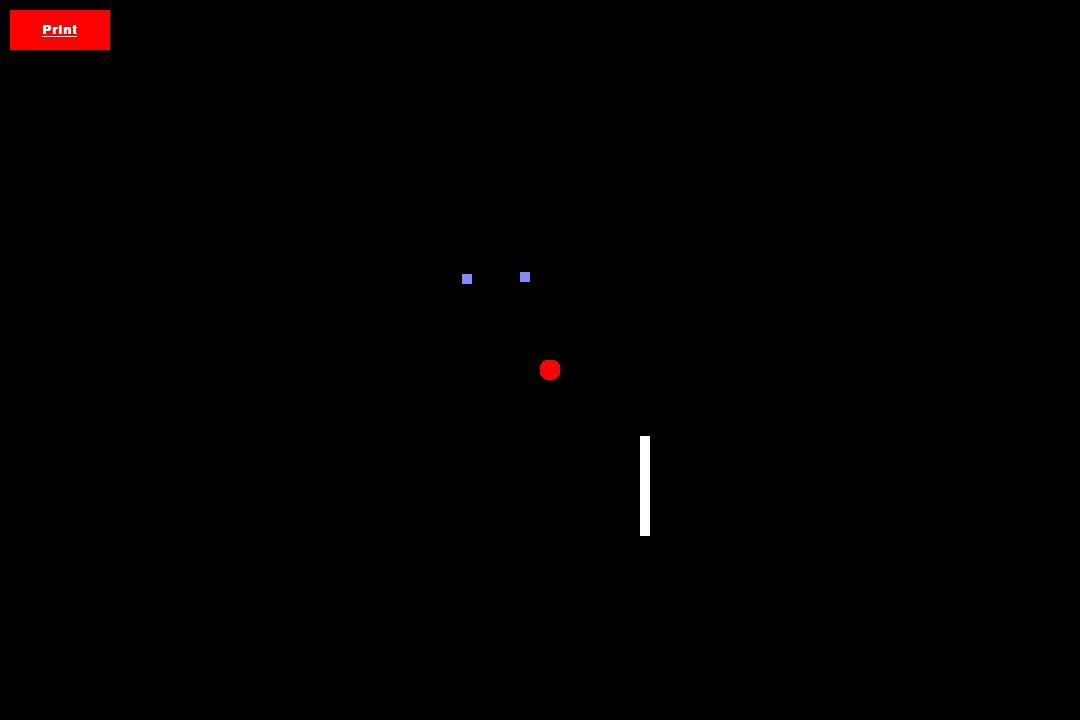
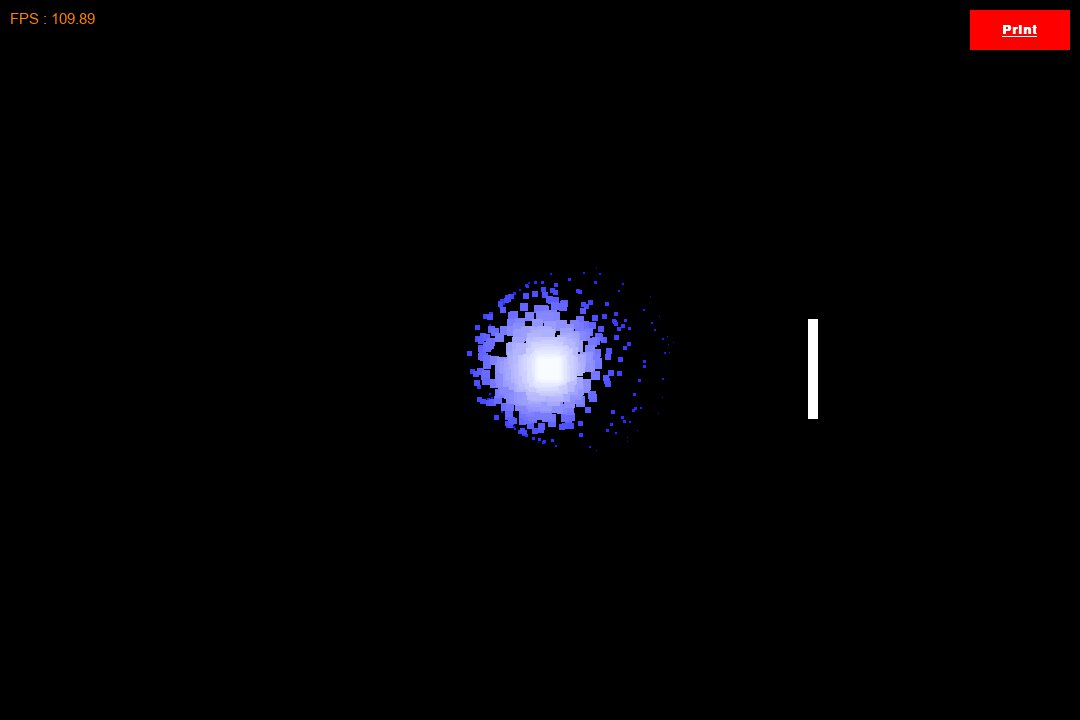
Create Debug Mode

diff --git a/pyengine/main_window/widgets/settings.py b/pyengine/main_window/widgets/settings.py
@@ -1,4 +1,4 @@
-from PyQt5.QtWidgets import QWidget, QLabel, QVBoxLayout, QLineEdit, QSpinBox, QPushButton
+from PyQt5.QtWidgets import QWidget, QLabel, QVBoxLayout, QLineEdit, QSpinBox, QPushButton, QCheckBox
 from PyQt5.QtGui import QFont
 from PyQt5.QtCore import Qt
 
@@ -21,6 +21,7 @@ class Settings(QWidget):
         self.number_mixer_channel_spin = QSpinBox(self)
         default_lang = QLabel("Current Language Name")
         self.default_lang_edit = QLineEdit("", self)
+        self.debug_check = QCheckBox("Debug Mode", self)
         self.valid = QPushButton("Validate", self)
 
         title.setFont(QFont("arial", 20, 1))
@@ -37,22 +38,24 @@ class Settings(QWidget):
 
         self.layout = QVBoxLayout()
         self.layout.addWidget(title)
-        self.layout.addSpacing(40)
+        self.layout.addSpacing(20)
         self.layout.addWidget(width)
         self.layout.addWidget(self.width_spin)
-        self.layout.addSpacing(20)
+        self.layout.addSpacing(10)
         self.layout.addWidget(height)
         self.layout.addWidget(self.height_spin)
-        self.layout.addSpacing(20)
+        self.layout.addSpacing(10)
         self.layout.addWidget(main_scene)
         self.layout.addWidget(self.main_scene_edit)
-        self.layout.addSpacing(20)
+        self.layout.addSpacing(10)
         self.layout.addWidget(number_mixer_channel)
         self.layout.addWidget(self.number_mixer_channel_spin)
-        self.layout.addSpacing(20)
+        self.layout.addSpacing(10)
         self.layout.addWidget(default_lang)
         self.layout.addWidget(self.default_lang_edit)
-        self.layout.addSpacing(40)
+        self.layout.addSpacing(10)
+        self.layout.addWidget(self.debug_check)
+        self.layout.addSpacing(20)
         self.layout.addWidget(self.valid)
         self.layout.setContentsMargins(50, 10, 50, 10)
         self.setLayout(self.layout)
@@ -69,6 +72,7 @@ class Settings(QWidget):
             self.project.settings["defaultLang"] = self.default_lang_edit.text()
         else:
             self.project.settings["defaultLang"] = None
+        self.project.settings["debug"] = self.debug_check.isChecked()
         self.project.save()
         self.parent.assets_explorer.update_project()
         self.parent.viewport.update_screen()
@@ -84,3 +88,4 @@ class Settings(QWidget):
         self.main_scene_edit.setText(self.project.settings.get("mainScene", ""))
         self.number_mixer_channel_spin.setValue(self.project.settings.get("numberMixerChannels", 8))
         self.default_lang_edit.setText(self.project.settings.get("defaultLang", ""))
+        self.debug_check.setChecked(self.project.settings.get("debug", False))

diff --git a/builds/Testing/Testing.py b/builds/Testing/Testing.py
@@ -7,14 +7,14 @@ from files.utils import *
 def launch():
     engine = Engine("en")
 
-    e1 = GameObject("e1", "Object", -1)
+    e1 = GameObject("e1", "Object", 1)
     transformcomponent = TransformComponent(engine, Vec2(100, 100), 0, Vec2(1.0, 1.0))
     e1.add_component(transformcomponent)
     spritecomponent = SpriteComponent(engine, "e1.png")
     e1.add_component(spritecomponent)
     controlcomponent = ControlComponent(engine, {'UPJUMP': 'K_UP', 'DOWN': 'K_DOWN', 'LEFT': 'K_LEFT', 'RIGHT': 'K_RIGHT'}, "FOURDIRECTION", 200)
     e1.add_component(controlcomponent)
-    particlecomponent = ParticleComponent(engine, Color.from_rgba(252, 255, 255, 255), Color.from_rgba(0, 0, 0, 255), Vec2(20, 20), Vec2(0, 0), Vec2(0, 359), Vec2(50, 50), 2, 1.0, 2)
+    particlecomponent = ParticleComponent(engine, Color.from_rgba(252, 255, 255, 255), Color.from_rgba(0, 0, 0, 255), Vec2(20, 20), Vec2(0, 0), Vec2(0, 359), Vec2(100, 100), 1, 0.01, 10)
     e1.add_component(particlecomponent)
     collisioncomponent = CollisionComponent(engine, True, "None", Vec2(20, 20))
     e1.add_component(collisioncomponent)
@@ -28,7 +28,7 @@ def launch():
     e2.add_component(collisioncomponent)
 
     button = GameObject("button", "Object", 0)
-    transformcomponent = TransformComponent(engine, Vec2(10, 10), 0, Vec2(1.0, 1.0))
+    transformcomponent = TransformComponent(engine, Vec2(970, 10), 0, Vec2(1.0, 1.0))
     button.add_component(transformcomponent)
     buttoncomponent = ButtonComponent(engine, Color.from_rgba(255, 0, 0, 255), Vec2(100, 40), "printLang - clicked", "Print", "arial", 20, True, False, True, Color.from_rgba(255, 255, 255, 255), True)
     button.add_component(buttoncomponent)
@@ -39,7 +39,7 @@ def launch():
     base = Scene(engine, "base", Color.from_rgba(0, 0, 0, 255), 1, Vec2(0, 0), e1, entities)
     
     scenes = [base]
-    game = Game("Testing", 1080, 720, 8, scenes, engine)
+    game = Game("Testing", 1080, 720, 8, True, scenes, engine)
     game.run()
 
 

diff --git a/builds/Testing/files/game.py b/builds/Testing/files/game.py
@@ -6,7 +6,7 @@ pygame.mixer.init()
 
 
 class Game:
-    def __init__(self, title, width, height,  nb_mixer_channels, scenes, engine):
+    def __init__(self, title, width, height,  nb_mixer_channels, debug, scenes, engine):
         self.engine = engine
         self.engine.game = self
         self.title = title
@@ -14,12 +14,16 @@ class Game:
         self.__height = height
         self.scenes = scenes
         self.current_scene = 0
+        self.debug = debug
+        self.debug_font = pygame.font.SysFont("arial", 15)
+        self.update_fps = 0.49
         pygame.mixer.set_num_channels(nb_mixer_channels)
 
         self.screen = pygame.display.set_mode((self.width, self.height))
 
         self.clock = pygame.time.Clock()
         self.is_running = False
+        self.fps_render = self.debug_font.render("FPS : "+str(round(self.get_fps(), 2)), True, (255, 128, 0, 255))
 
     @property
     def width(self):
@@ -78,8 +82,18 @@ class Game:
                 elif event.type == const.MOUSEMOTION:
                     self.scenes[self.current_scene].mouse_motion(event)
 
-            self.scenes[self.current_scene].update(self.clock.get_time() / 1000)
+            deltatime = self.clock.get_time() / 1000
+
+            self.scenes[self.current_scene].update(deltatime)
             self.scenes[self.current_scene].show(self.screen)
+
+            if self.debug:
+                self.update_fps += deltatime
+                if self.update_fps > 0.5:
+                    self.update_fps = 0
+                    self.fps_render = self.debug_font.render("FPS : " + str(round(self.get_fps(), 2)), True,
+                                                             (255, 128, 0, 255))
+                self.screen.blit(self.fps_render, (10, 10))
 
             self.clock.tick()
             pygame.display.update()

diff --git a/pyengine/build/objects/game.py b/pyengine/build/objects/game.py
@@ -6,7 +6,7 @@ pygame.mixer.init()
 
 
 class Game:
-    def __init__(self, title, width, height,  nb_mixer_channels, scenes, engine):
+    def __init__(self, title, width, height,  nb_mixer_channels, debug, scenes, engine):
         self.engine = engine
         self.engine.game = self
         self.title = title
@@ -14,12 +14,16 @@ class Game:
         self.__height = height
         self.scenes = scenes
         self.current_scene = 0
+        self.debug = debug
+        self.debug_font = pygame.font.SysFont("arial", 15)
+        self.update_fps = 0.49
         pygame.mixer.set_num_channels(nb_mixer_channels)
 
         self.screen = pygame.display.set_mode((self.width, self.height))
 
         self.clock = pygame.time.Clock()
         self.is_running = False
+        self.fps_render = self.debug_font.render("FPS : "+str(round(self.get_fps(), 2)), True, (255, 128, 0, 255))
 
     @property
     def width(self):
@@ -78,8 +82,18 @@ class Game:
                 elif event.type == const.MOUSEMOTION:
                     self.scenes[self.current_scene].mouse_motion(event)
 
-            self.scenes[self.current_scene].update(self.clock.get_time() / 1000)
+            deltatime = self.clock.get_time() / 1000
+
+            self.scenes[self.current_scene].update(deltatime)
             self.scenes[self.current_scene].show(self.screen)
+
+            if self.debug:
+                self.update_fps += deltatime
+                if self.update_fps > 0.5:
+                    self.update_fps = 0
+                    self.fps_render = self.debug_font.render("FPS : " + str(round(self.get_fps(), 2)), True,
+                                                             (255, 128, 0, 255))
+                self.screen.blit(self.fps_render, (10, 10))
 
             self.clock.tick()
             pygame.display.update()

diff --git a/pyengine/build/project_builder.py b/pyengine/build/project_builder.py
@@ -125,7 +125,8 @@ class ProjectBuilder:
             "{HEIGHT}": str(project.settings.get("height", 720)),
             "{NB_MIXER_CHANNELS}": str(project.settings.get("numberMixerChannels", 8)),
             "{SCENES_NAMES}": str([i.name for i in project.scenes]).replace("'", ""),
-            "{DEFAULT_LANG}": str(project.settings.get("defaultLang", None))
+            "{DEFAULT_LANG}": str(project.settings.get("defaultLang", None)),
+            "{DEBUG}": str(project.settings.get("debug", False))
         }
         with open(os.path.join(ProjectBuilder.build_folders["templates"], "main.txt"), "r") as f:
             template = f.read()

diff --git a/pyengine/common/project.py b/pyengine/common/project.py
@@ -35,7 +35,8 @@ class Project:
             "height": 720,
             "mainScene": None,
             "numberMixerChannels": 8,
-            "defaultLang": None
+            "defaultLang": None,
+            "debug": False
         }
         self.scenes = []
         self.textures = []

diff --git a/README.md b/README.md
@@ -53,6 +53,7 @@ Caption : [+] Addition, [~] Modification, [-] Deletion, [#] Bug fix
 
 ### V 1.2.0 : Vildiur Update - XX/XX/21 (INDEV)
 
+- [+] Debug Mode
 - [+] Game Save System
 - [+] Game Settings
 - [+] Camera System
